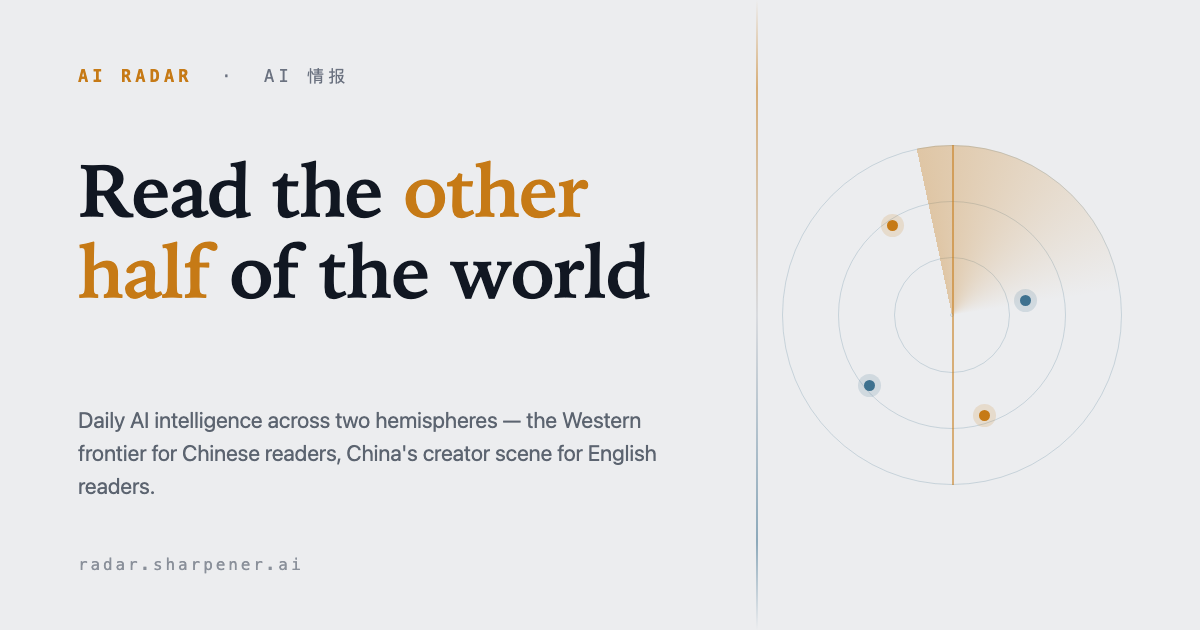
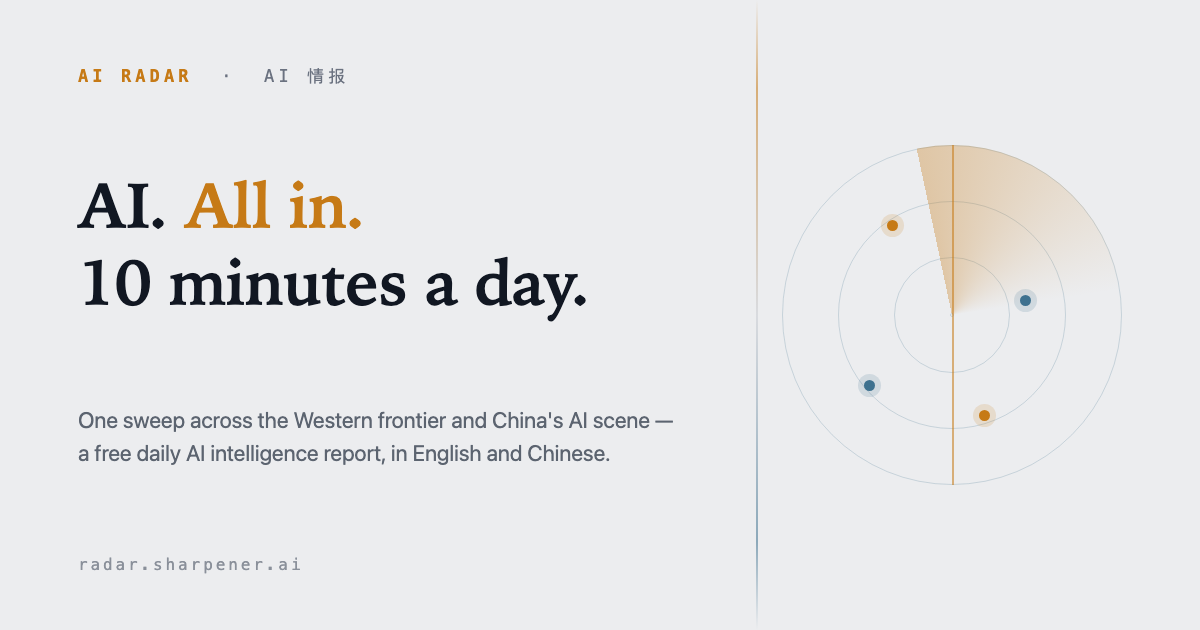
hero: tagline 换成价值主张 —— AI. All in. 10 minutes a day. / 每天 10 分钟,AI 圈一网打尽
「读到另一半世界」说的是覆盖面(手段),不是读者得到的东西;且和刚定稿的
「完整一圈」定位打架(「另一半」暗示只给缺的半边)。新 tagline 走省时间+全覆盖:

- EN "AI. All in. 10 minutes a day." —— 用户要的双关:标点把 "All in" 独立成
  地道的扑克表达(全押),后接 10 minutes 又浮出 "all in 10 minutes"(尽在
  10 分钟)。注意:必须带句点,"All in AI" 连写会退化成语法半通的句子。
- CN 「每天 10 分钟,AI 圈一网打尽」——「一网打尽」自带双关:全部拿下/撒网
  捕捞,和雷达扫一圈同一个意象,还把「不漏」的承诺说了。
- 两边都加显式 <br>,否则断行落在 "10 / minutes"、"AI / 圈" 中间。
- 副标题删掉尾句「这是它今天的输出。/ This is today's output.」(用户定)。
- og 分享图同步:旧图还是「Read the other half…」+ 已废弃的「creator scene
  / for Chinese readers」旧主张,一并重渲染。

Changed region(s): [[0.0617, 0.2413, 0.555, 0.5127], [0.0617, 0.6333, 0.555, 0.7841]]

diff --git a/index.html b/index.html
@@ -264,9 +264,9 @@ html.js .reveal.in{opacity:1;transform:none}
     <div>
       <div class="eyebrow reveal" data-i18n="hero.eyebrow">每日 · AI 情报 · 横跨东西</div>
       <h1 class="reveal">
-        <span data-i18n="hero.h1a">读到</span><span class="east" data-i18n="hero.h1east">另一半</span><span data-i18n="hero.h1b">世界</span>
+        <span data-i18n="hero.h1a">每天 10 分钟,<br>AI 圈</span><span class="east" data-i18n="hero.h1east">一网打尽</span><span data-i18n="hero.h1b"></span>
       </h1>
-      <p class="sub reveal" data-i18n="hero.sub">我给自己造了一台每天自动跑的 AI 情报雷达:一次扫描横跨西方源头(X · HN · 实验室)和中文AI圈(小红书 · B站),压缩成一份 10 分钟读完的报告。这是它今天的输出。</p>
+      <p class="sub reveal" data-i18n="hero.sub">我给自己造了一台每天自动跑的 AI 情报雷达:一次扫描横跨西方源头(X · HN · 实验室)和中文AI圈(小红书 · B站),压缩成一份 10 分钟读完的报告。</p>
       <div class="cta-row reveal">
         <a class="btn primary" href="#channels"><span data-i18n="hero.cta1">订阅AI情报</span><span aria-hidden="true">→</span></a>
         <a class="btn ghost" href="#today" data-i18n="hero.cta2">今日报告</a>
@@ -387,8 +387,8 @@ const I18N={
  en:{
   "hero.eyebrow":"Daily · AI Intelligence · East meets West",
   "today.loading":"Loading the latest edition…","today.readfull":"Read the full four-layer report →",
-  "hero.h1a":"Read the ",  "hero.h1east":"other half",  "hero.h1b":" of the world",
-  "hero.sub":"I built myself an AI radar that runs every day — one sweep across the Western frontier (X · HN · labs) and China's AI scene (rednote · Bilibili), compressed into a 10-minute read. This is today's output.",
+  "hero.h1a":"AI. ",  "hero.h1east":"All in.",  "hero.h1b":"<br>10 minutes a day.",
+  "hero.sub":"I built myself an AI radar that runs every day — one sweep across the Western frontier (X · HN · labs) and China's AI scene (rednote · Bilibili), compressed into a 10-minute read.",
   "hero.cta1":"Subscribe to AI radar","hero.cta2":"Today's report","hero.radarcap":"Sweep · 116°E / 122°W",
   "why.h2":"Everyone else scans half the sky",
   "why.lead":"English AI newsletters barely watch China's AI signals; Chinese ones can't keep up with Western sources. AI Radar crawls both in one pass — so what you read each day is the full circle, not half a map.",
